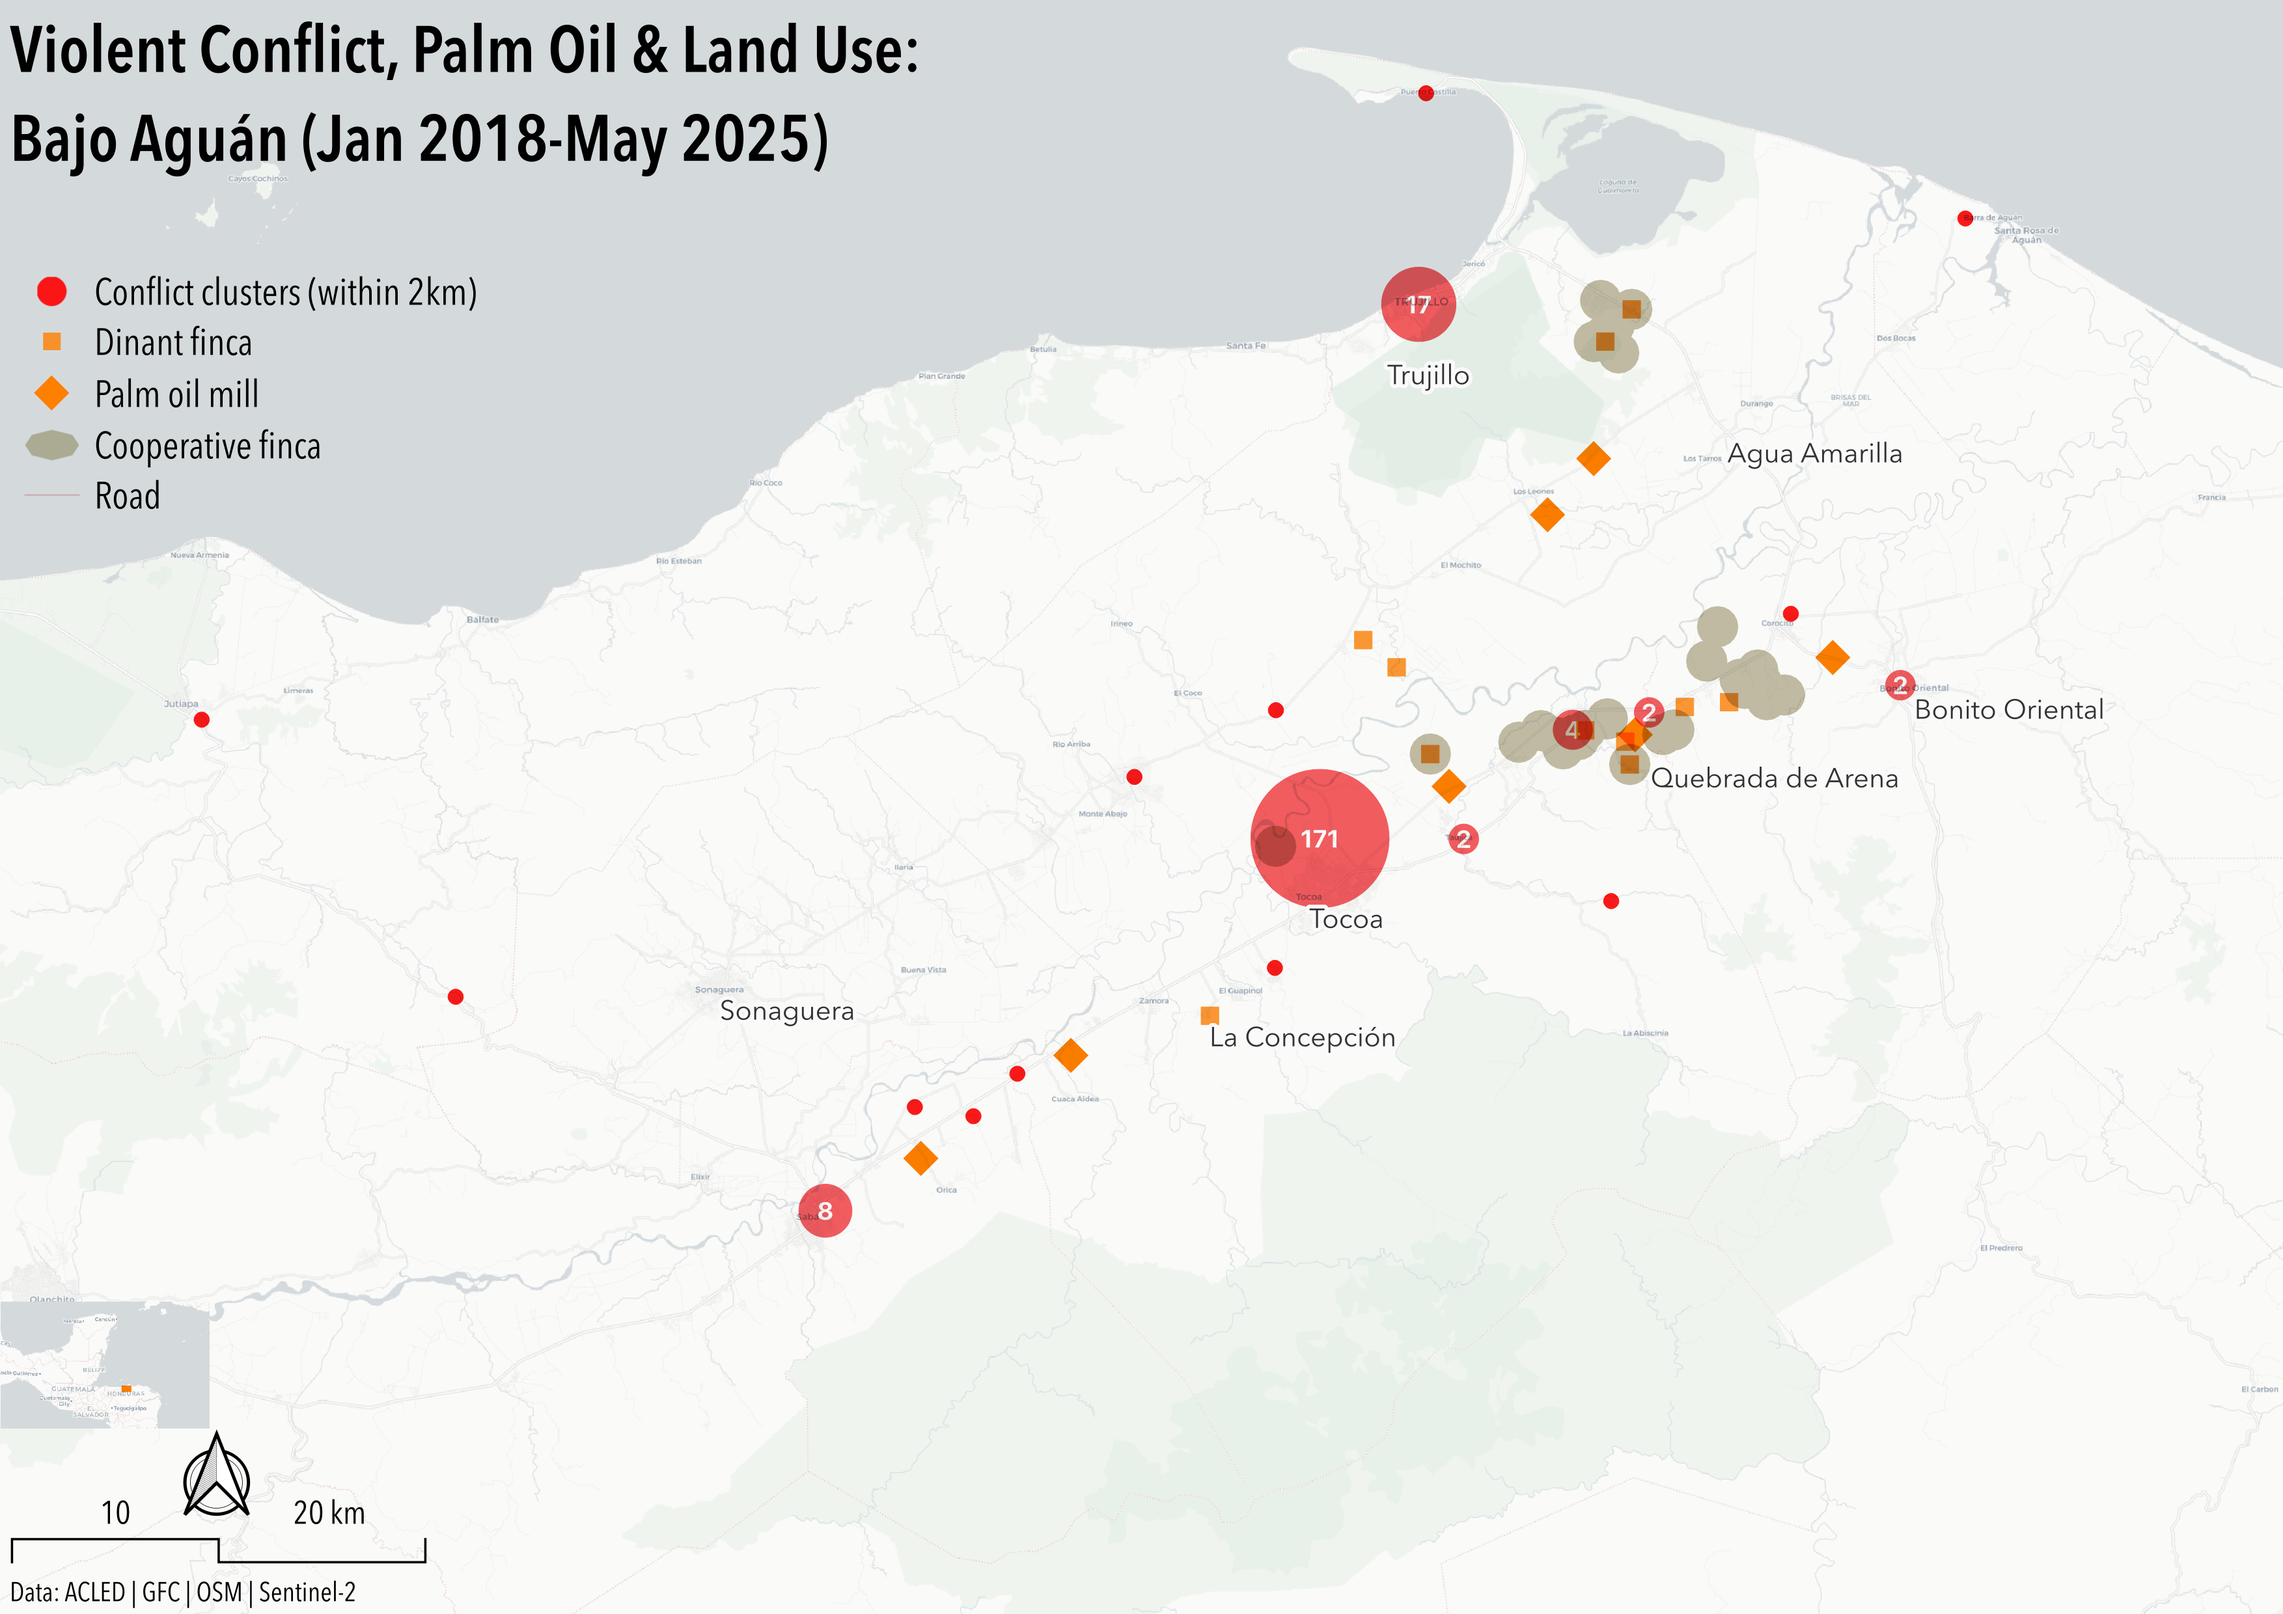
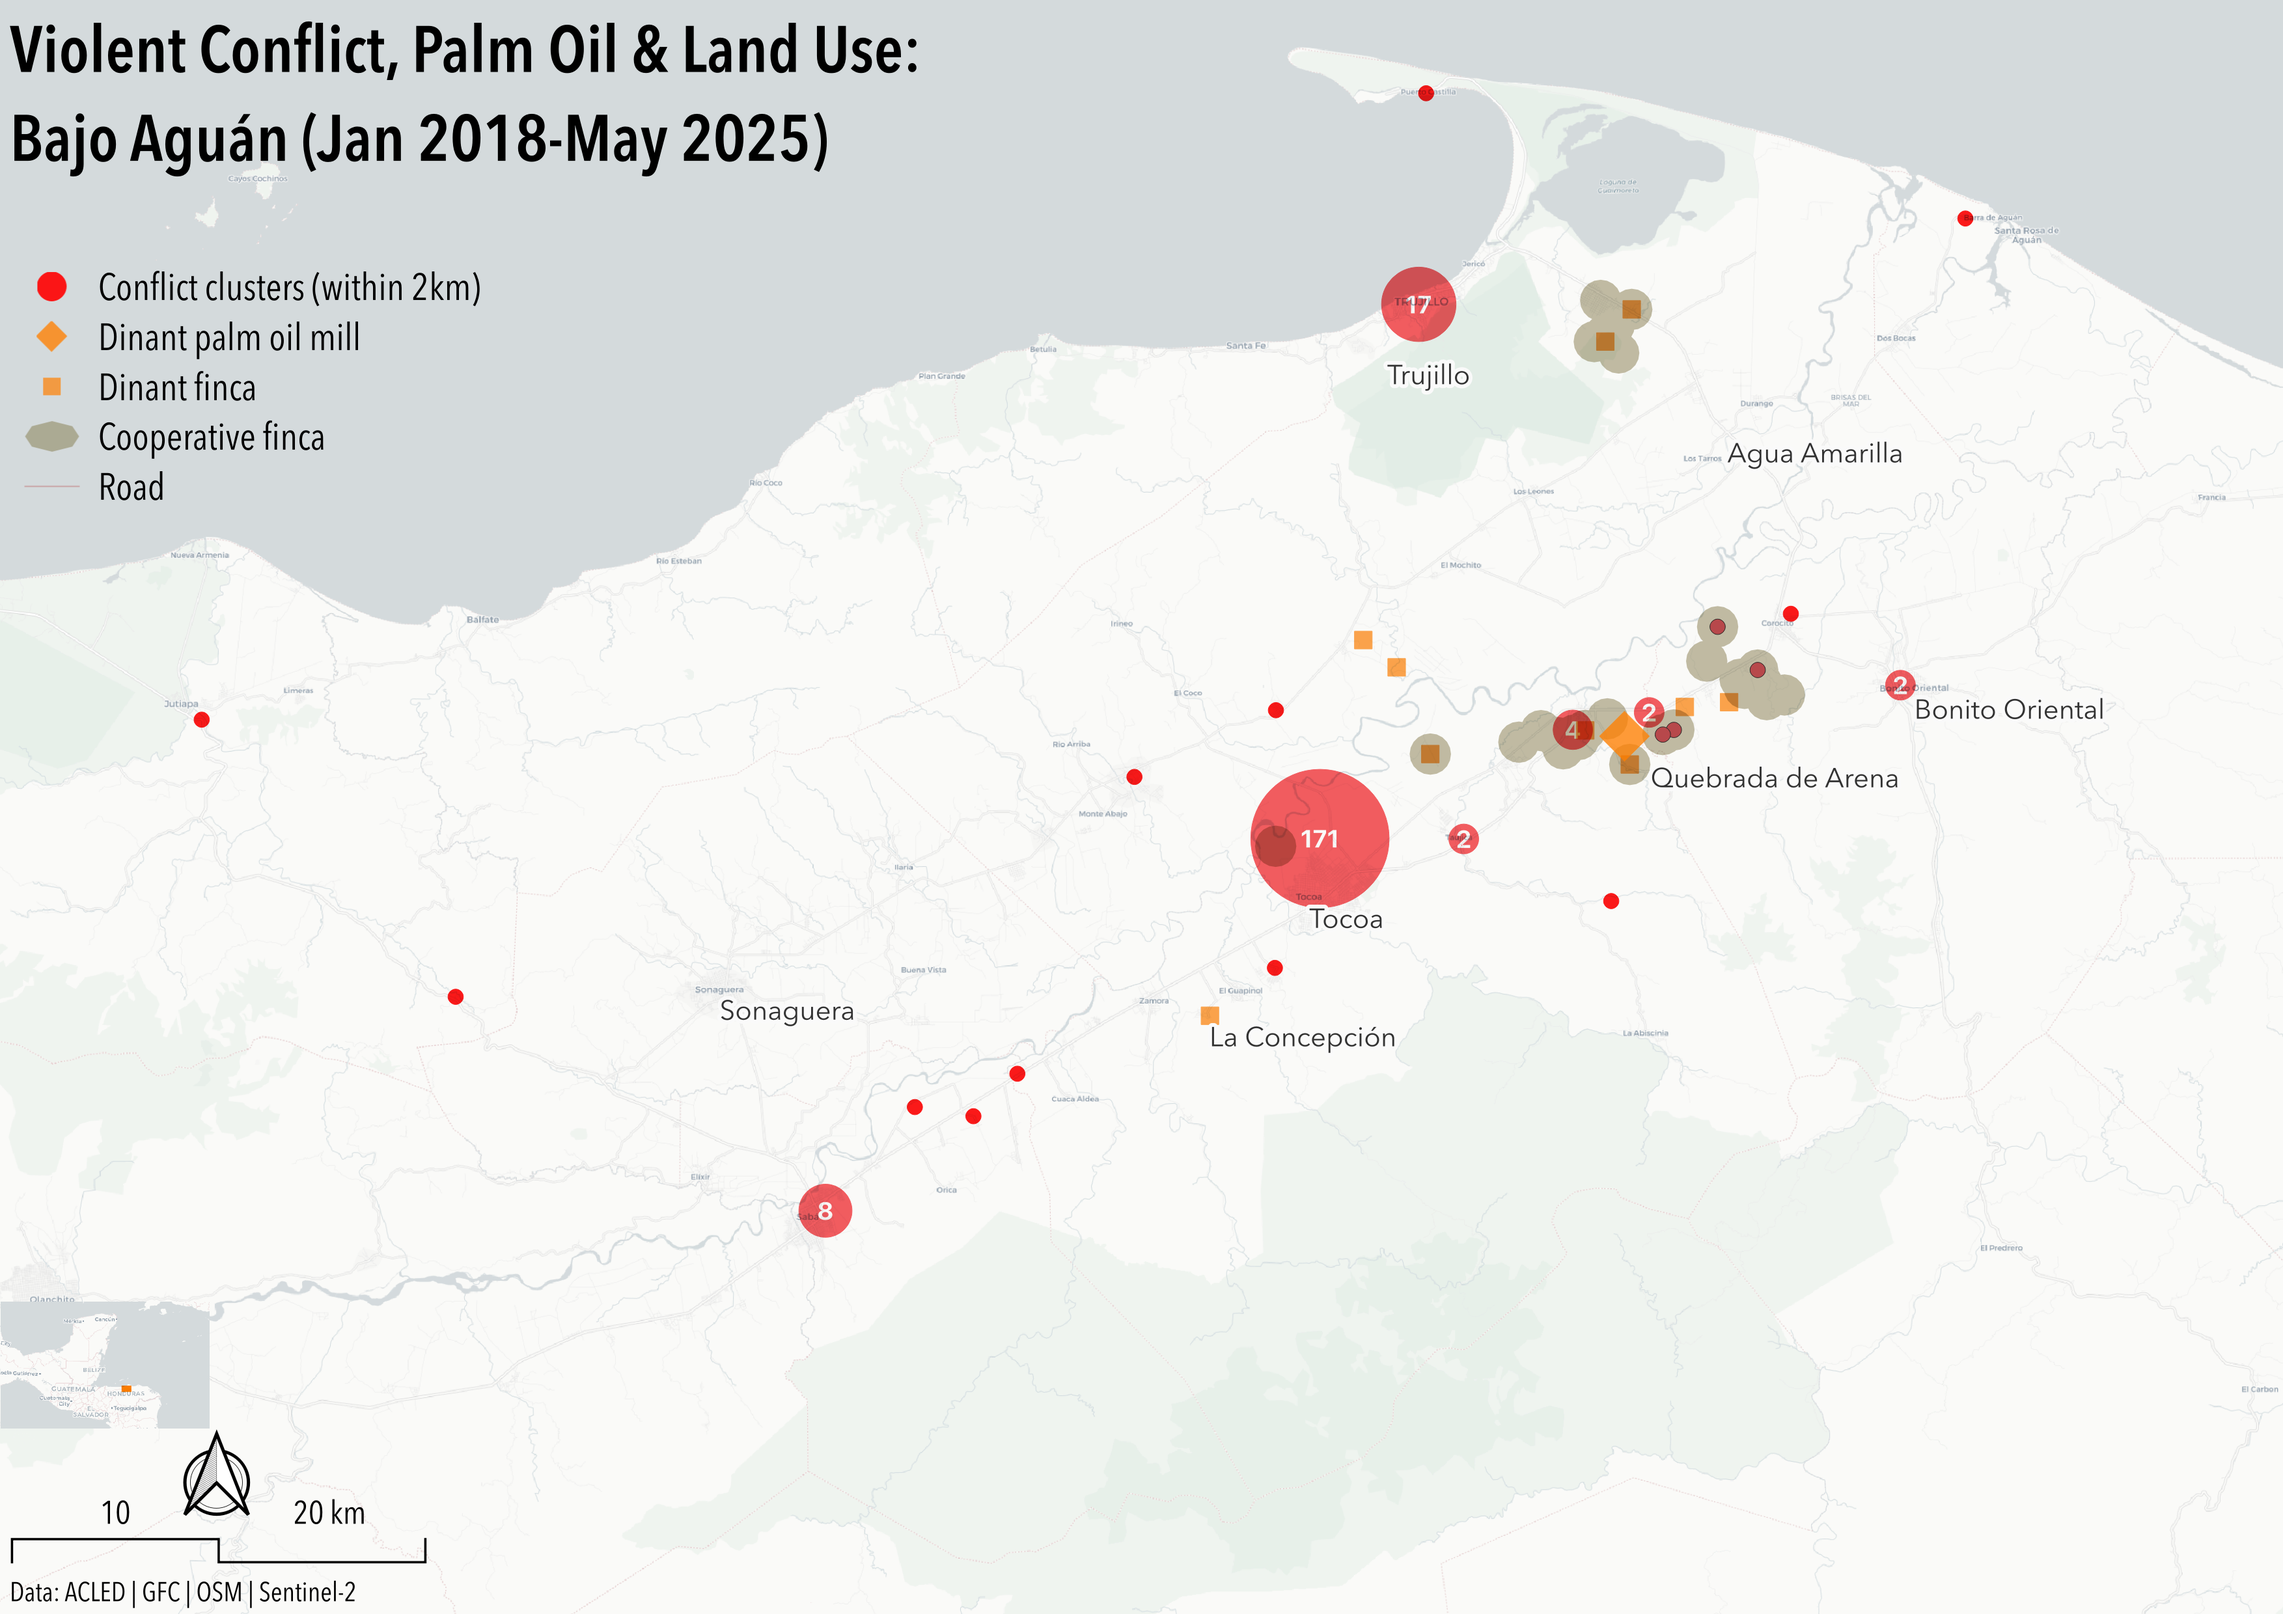
update services index

diff --git a/docs/services/index.html b/docs/services/index.html
@@ -152,9 +152,9 @@ ul.task-list li input[type="checkbox"] {
 
 
 <p>I produce analysis and tools for organizations where standard data sources are not enough.</p>
-<p><strong><a href="../services/land_conflict_dd.html">Land conflict due diligence</a></strong> — Detect ground-truth liability risk for an area with satellite and event data.</p>
-<p><strong><a href="../services/multi_signal_monitoring.html">Multi-signal monitoring</a></strong> — Track compliance and coercion dynamics in multiple conflict areas over time.</p>
-<p><strong><a href="../services/ground_truth_infra.html">Ground truth infrastructure</a></strong> — Build SMS-based field reporting infrastructure for underconnected communities.</p>
+<p><strong><a href="../services/land_conflict_dd.html">Land conflict due diligence</a></strong> – Detect ground-truth liability risk for an area with satellite and event data.</p>
+<p><strong><a href="../services/multi_signal_monitoring.html">Multi-signal monitoring</a></strong> – Track compliance and coercion dynamics in multiple conflict areas over time.</p>
+<p><strong><a href="../services/ground_truth_infra.html">Ground truth infrastructure</a></strong> – Build SMS-based field reporting infrastructure for underconnected communities.</p>
 
 
 
